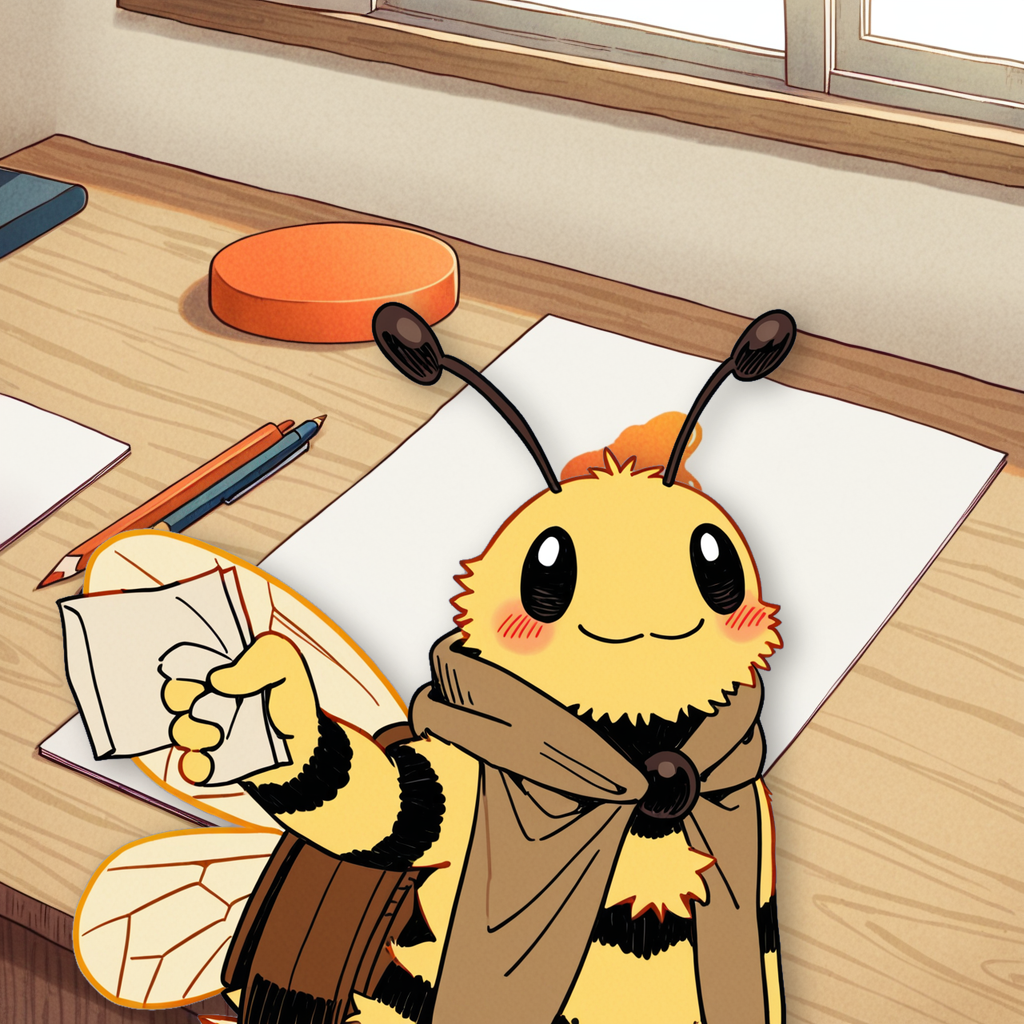
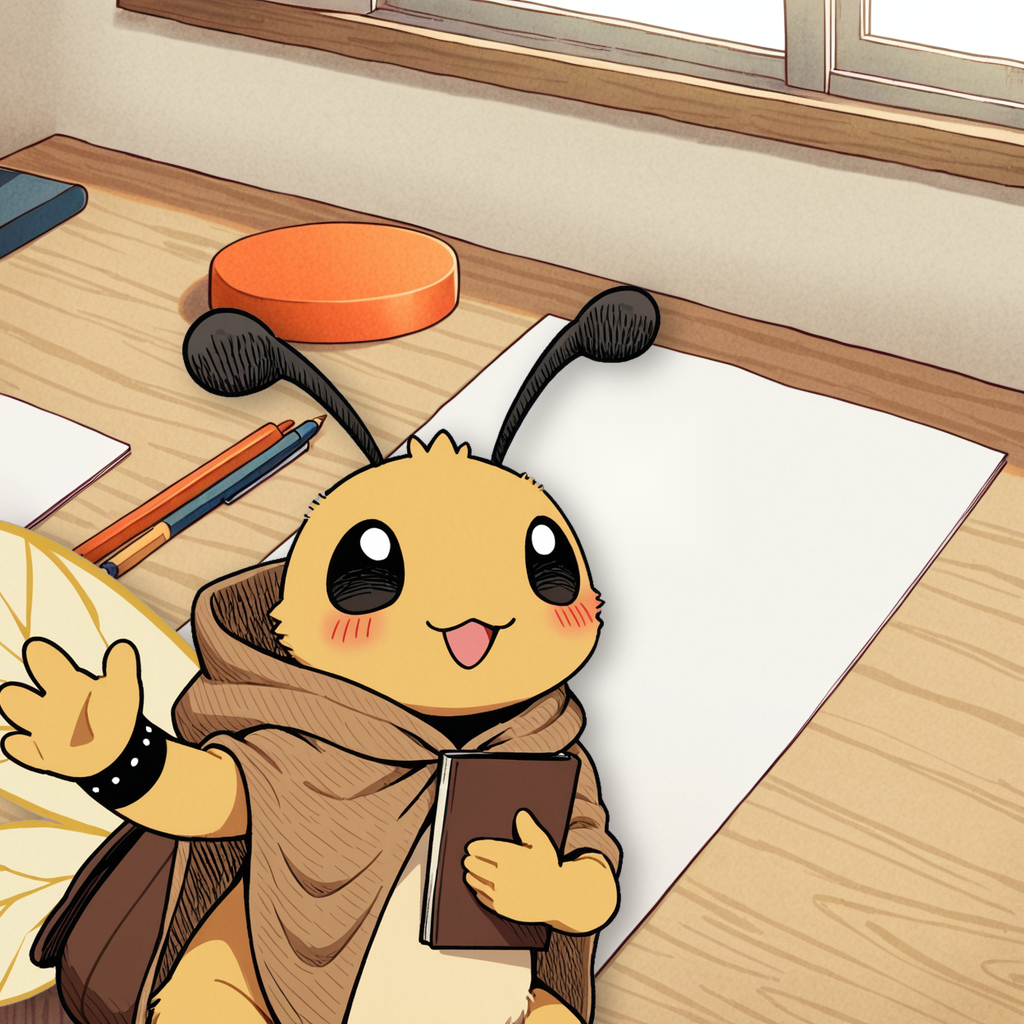
Season 1 art test: First Proof redone, the four Sentinel cards in the card frame
Not used by the app.

Claude-Session: https://claude.ai/code/session_01HWHP3iugw8gkvvKKS5vpBj

diff --git a/art/season1/compose.py b/art/season1/compose.py
@@ -11,7 +11,8 @@ PICKS = {  # card: bee render, scene, size of the bee (1 = full width), x of its
  "market_day": dict(bee="market_day_bee_d78_66002.png", scene="market_day_scene_63001.png", scale=0.76, x=150),
  # the render drew the antenna tips cream: darkened to the Sentinel's own brown-black
  "first_trail": dict(bee="first_trail_bee_d68_66001.png", scene="first_trail_scene_63004.png", scale=0.78, x=235, dark=[(370, 120, 610, 260), (790, 120, 1010, 260)]),
- "first_proof": dict(bee="first_proof_bee_d68_66005.png", scene="first_proof_scene_64006.png", scale=0.80, x=40),
+ # the scene's orange blot on the paper sat right behind the head like a tuft of hair: painted out
+ "first_proof": dict(bee="first_proof_bee_d70_67002.png", scene="first_proof_scene_64006.png", scale=0.82, x=-150, erase=[(545, 395, 725, 570)]),
 }
 def key(im):
     """Alpha from hue: the background is the only blue-violet thing; holes inside the bee are filled, loose specks dropped."""
@@ -32,7 +33,10 @@ for card in (sys.argv[1:] or PICKS):
         box[light] = (62, 44, 34); a[y0:y1, x0:x1] = box; im = Image.fromarray(a.astype(np.uint8))
     bee = key(im); bee.save(D/f"{card}_bee.png")
     n = round(1024*p["scale"]); bee = bee.resize((n, n), Image.LANCZOS); x, y = p["x"], 1024 - n
-    scene = Image.open(D/p["scene"]).convert("RGBA")
+    sc = cv2.cvtColor(cv2.imread(str(D/p["scene"])), cv2.COLOR_BGR2RGB)
+    for (x0, y0, x1, y1) in p.get("erase", []):
+        em = np.zeros(sc.shape[:2], np.uint8); em[y0:y1, x0:x1] = 255; sc = cv2.inpaint(sc, em, 7, cv2.INPAINT_TELEA)
+    scene = Image.fromarray(sc).convert("RGBA")
     layer = Image.new("RGBA", (1024 + 2*n, 1024), (0, 0, 0, 0)); layer.paste(bee, (x + n, y))   # padded, so a bee may hang over either side
     bee_full = layer.crop((n, 0, n + 1024, 1024))
     shadow = Image.new("RGBA", scene.size, (0, 0, 0, 0)); shadow.paste(Image.new("RGBA", scene.size, (58, 42, 28, 255)), (12, 8), bee_full.getchannel("A").point(lambda v: int(v*0.38)))

diff --git a/art/season1/persona.py b/art/season1/persona.py
@@ -18,7 +18,7 @@ PERSONAS = {  # Sentinel category: kraft felt and linen, simple and friendly
                "(a plain cream cotton tote bag with carrot tops and leafy greens sticking out of it hanging from one raised hand:1.4), the other hand waving",
  # challenge cards: the Sentinel itself, in a new pose
  "first_trail": SENTINEL + ", (one hand holding a wooden walking stick upright, the other hand raised flat above its eyes like a visor, looking into the distance:1.4), curious wide eyes",
- "first_proof": SENTINEL + ", (eyes closed in a big proud joyful smile:1.2), (holding up a small open kraft paper booklet in one raised hand, showing it off:1.4), the other hand making a fist of joy",
+ "first_proof": SENTINEL + ", (big proud happy open-mouth smile:1.2), (one arm raised high holding up a small closed brown kraft passport booklet, a little rectangular book with a plain cover, clearly visible above its shoulder:1.5), the other hand on its hip",
 }
 card, dn, seeds = sys.argv[1], float(sys.argv[2]), [int(s) for s in sys.argv[3:]]
 prompt = f"cute honeybee {PERSONAS[card]}, (hands with fingers clearly visible:1.2), " + g.BEE + ", " + g.STYLE

diff --git a/CLAUDE.md b/CLAUDE.md
@@ -119,13 +119,13 @@ on Solana. For sustainable shops, cafés, markets and online brands.
 - Points by kind (`POINTS_BY_KIND` in `lib/stampClasses.ts`, new table 2026-11-18, before that 1 / 1 / 2 / 1): a presence stamp is worth 1 at a café,
   2 at a restaurant, 3 at a hotel/resort and 3 at an eco store's till; a verified purchase is 5 (online order now; in store only after a successful
   receipt scan, so receipt scanning must land as a verified-class source). `pointsFor(source, kind)` everywhere; the passport query joins the place's kind.
-  Recomputed on read, so old stamps follow today's table. Ranks (`RANKS` in `lib/milestoneRules.ts`): Sentinel 1, Warden 5, Guardian 20, Vanguard 50,
-  Paragon 120 points (before: 1 / 3 / 10 / 25 / 50). Paragon is the summit: no further card by points (the old "Paragon edition every 50 points" is gone;
-  editions already minted stay, renumbered 170, 220, ...). `drizzle/0019_new_rank_thresholds.sql` renumbers the stored `nft_mints.milestone` of cards minted
-  under the old thresholds to the new threshold of the same rank (3 to 5, 10 to 20, 25 to 50, 50 and up to 120 and up), because a card's rank is read from its
-  milestone: nobody loses a rank. **Written 2026-11-18, local only, not deployed**: the migration runs on the next deploy's build (`vercel.json`), and for the
-  moments between it and the new code going live the old code would read the renumbered cards under old thresholds. Never run `npm run db:migrate` on this
-  machine to try it: it reads `DATABASE_URL_UNPOOLED`, which is production (apply the SQL to the Docker DB by hand). Not built yet (memory `ecoproof-points-system`):
+  Recomputed on read, so old stamps follow today's table. Ranks (`RANKS` in `lib/milestoneRules.ts`): Sentinel 1, Warden 5, Guardian 10, Vanguard 25,
+  Paragon 50 points (Pola, 2026-11-18: only Warden moved, from 3 to 5; a 1 / 5 / 20 / 50 / 120 ladder was in the code for part of that day and is gone). Paragon is the
+  summit: no further card by points (the old "Paragon edition every 50 points" is gone; editions already minted stay). `drizzle/0019_new_rank_thresholds.sql`
+  renumbers the stored `nft_mints.milestone` of Warden cards minted at 3 points to 5, because a card's rank is read from its milestone: nobody loses Warden.
+  **Written 2026-11-18, local only, not deployed**: the migration runs on the next deploy's build (`vercel.json`), and until the new code is live the old code would
+  read a renumbered Warden (5) correctly too (3 and 5 are both Warden there), so there is no gap. Never run `npm run db:migrate` on this machine to try it: it reads
+  `DATABASE_URL_UNPOOLED`, which is production (apply the SQL to the Docker DB by hand). Not built yet (memory `ecoproof-points-system`):
   the Season cards (random card every 8 points, the 20 designs), the random card on every 5th scan after Paragon, the cap of 20 NFTs per passport.
   The landing shows three doors: Café / Restaurant (one door, a small café/restaurant switch is planned), Hotel / Resort, Eco store.
 - Rank personas (decided 22 Oct 2026): five different bees, one per rank, in `art/v2/ranks/personas/` (img2img from the former Sentinel card at
@@ -135,7 +135,7 @@ on Solana. For sustainable shops, cafés, markets and online brands.
   a fuzz head edge with no outline. Live cards: `art/v2/ranks/<rank>/<rank>_card.png` (old ones kept as `_prev`). After a card change run `node art/v2/compositor/nft-art.mjs`
   (static `public/nft/<rank>.png`: fixed background, rank aura, no collar badge, no item; Pola, 2026-11-18: no circles on the rank cards, so `pickTraits` in `compose.mjs` gives rank cards `item: "none"` and `badge: "none"`, achievements keep theirs for now) then `npx tsx scripts/nft-webp.ts`, and `node art/v2/compositor/samples.mjs`
   (sample cards; `public/share/art/` is the 640px copy of their `_art.png`, `public/landing/cards/v2/` the 600x840 copy of the five rank samples; then `node art/steps/stamp/compose.mjs` for the "How it works" stamp picture, which shows the Sentinel card, and copy its output to `public/landing/steps/v2/stamp-clean.webp`). The gold outline aura is built from each card's own alpha in `compose.mjs`. `art/v2/ranks`, `layers` and `compositor` are not in git (300 MB of renders); only `personas/pick` and the scripts are.
-- Season 1 cards (plan agreed with Pola 2026-11-18, not built into the app; art test only): 20 special cards, 4 per rank, full scenes, no circles, badges or item bubbles; per rank 2 "lucky" cards with a new guest bee and 2 "challenge" cards with the rank's own bee in a new pose. Recipe `art/season1/`: `persona.py <card> <denoise> seeds` (img2img from the Sentinel card on dusty blue, as the rank personas; 0.78 for a new bee, 0.68 to keep the Sentinel), `fix.py` (inpaint a wrong part), `scene.py <card> seeds` (the scene without a bee, txt2img), `compose.py` (hue-key the bee, stand it in the scene; `PICKS` holds the choices) → `<card>.png`. What failed: img2img from the finished rank picture at 0.84 (generic cartoon bees), and pasting the unchanged rank bee on every scene (same pose everywhere, Pola wanted own poses). First set: Sentinel (`_sentinel_set.png`: Morning Cup, Market Day, First Trail, First Proof), waiting for Pola's verdict. The cards have no frame yet.
+- Season 1 cards (plan agreed with Pola 2026-11-18, not built into the app; art test only): 20 special cards, 4 per rank, full scenes, no circles, badges or item bubbles; per rank 2 "lucky" cards with a new guest bee and 2 "challenge" cards with the rank's own bee in a new pose. Recipe `art/season1/`: `persona.py <card> <denoise> seeds` (img2img from the Sentinel card on dusty blue, as the rank personas; 0.78 for a new bee, 0.68 to keep the Sentinel), `fix.py` (inpaint a wrong part), `scene.py <card> seeds` (the scene without a bee, txt2img), `compose.py` (hue-key the bee, stand it in the scene; `PICKS` holds the choices) → `<card>.png`, `node art/season1/cards.mjs` (the card frame around each picture, sample values; uses `art_file` and `subtitle` in `art/v2/compositor/compose.mjs`) → `cards/<card>.png`, `cards/_overview.png`. What failed: img2img from the finished rank picture at 0.84 (generic cartoon bees), and pasting the unchanged rank bee on every scene (same pose everywhere, Pola wanted own poses). First set: Sentinel (`_sentinel_set.png`: Morning Cup, Market Day, First Trail, First Proof), waiting for Pola's verdict.
 - Declarations: `place_practices` is the owner's private draft. "Publish…" (warning sheet, at
   most once a day, refused if unchanged) freezes it into `practice_declarations` (versions, never
   edited) and writes its SHA-256 to Solana (memo + claim account keyed on its id,
